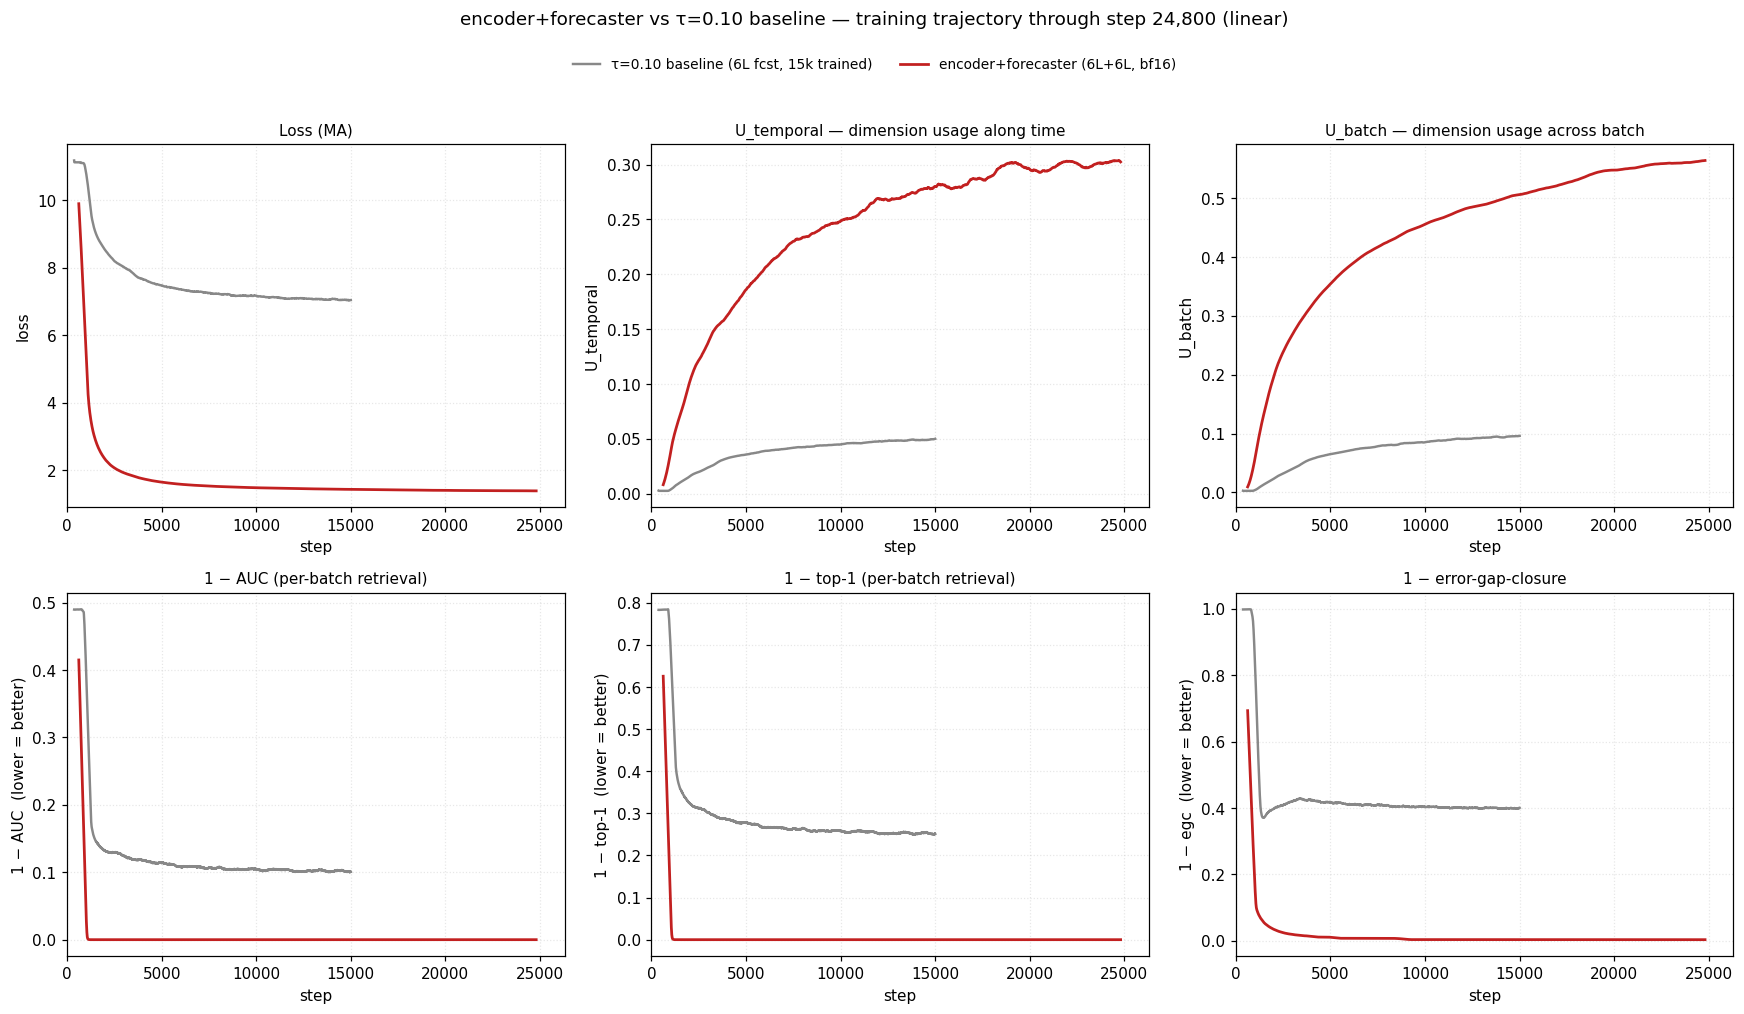
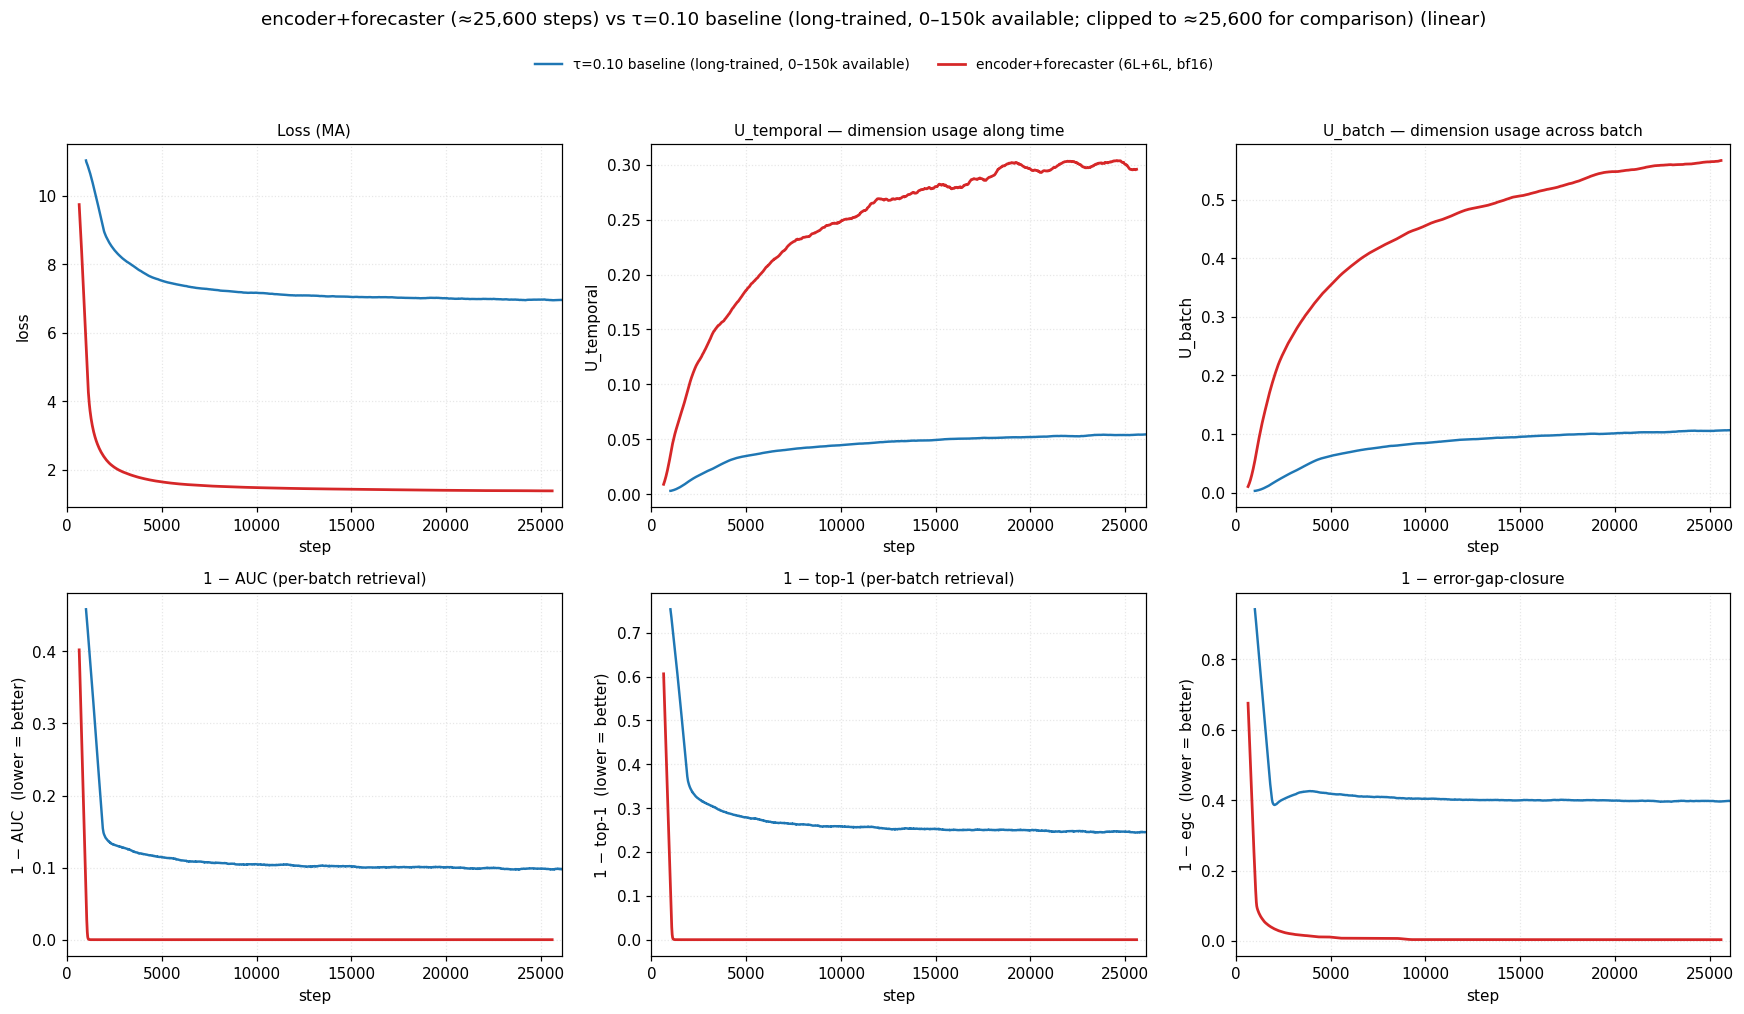
exp(encoder-forecaster): swap baseline to long-trained τ=0.10, blue/red palette
Concatenates all four available τ=0.10 chunks (steps 0-15k, 14.9k-24.5k,
23.9k-50k, 48k-150k → 150k unique step rows after earliest-wins dedup)
into a single long baseline trajectory. The bonus chunk
sync_tau_sweep_0_10_50k/tau_sweep_0_10_50k_r2_losses.csv covers the
24.5k-48k gap that was previously a discontinuity.

Replaces grey baseline + red new arm with tab:blue (#1f77b4) for the
baseline and tab:red (#d62728) for the encoder+forecaster — saturated
hues for visibility.

X-axis clipped to the SHORTER trajectory: min(baseline_max=150 000,
new_arm_max=25 600) + small margin = 26 100.

Comparison table refreshed to step ≈25k (window 24.8k-25k baseline,
25.4k-25.6k new arm).

diff --git a/experiments/2026-05-10_exp_encoder_forecaster/scripts/plot_progress.py b/experiments/2026-05-10_exp_encoder_forecaster/scripts/plot_progress.py
@@ -25,10 +25,15 @@ forecast and past embeddings (cross-batch reference). When fp < 1,
 egc=1 ⇒ perfect (ff=1), egc=0 ⇒ no improvement over fp, egc<0 ⇒ fp > ff.
 Guards: rows with fp ≥ 1 (denominator ≤ 0) are masked out of the plot.
 
-The x-axis upper bound is set from the new arm's current max step
-(plus a small margin), so the in-progress arm fills the figure instead
-of being squashed against the 150k long-baseline reference. The
-long-baseline reference curve is clipped to the visible x-range.
+The τ=0.10 baseline is concatenated from multiple resume chunks
+(0–15k, 15k–24.5k, 24.5k–50k, 50k–150k); on overlapping ranges the
+earliest chunk's row wins. A 24.5k→24.5k touch-up and other
+discontinuities just show as small gaps in the line.
+
+The x-axis upper bound is clipped to the SHORTER of the two
+trajectories — i.e. `min(baseline_max_step, new_arm_max_step)` plus a
+small margin. With the 100k+ baseline and the new arm at ~25k, the
+upper bound becomes ≈25k.
 
 Re-runnable. Worktree path is the script root; source CSVs are read
 from the MAIN checkout where the training writes them. No GPU usage.
@@ -55,24 +60,27 @@ OUT_LOG.parent.mkdir(parents=True, exist_ok=True)
 # read from there read-only — never write into that tree.
 MAIN = Path("/home/jupyter/contrastive-forecasting")
 
-# Color palette: reuse loss-extensions/τ-sweep conventions.
-#   - τ=0.10 baseline arms → grey  (#888 short, #bbb long reference, dashed)
-#   - encoder+forecaster (new "headline" arm) → loss-extensions
-#     "highlight new" red `#c22020` (square_diagram.py C_RIGHT — the
-#     NEW h-side batch edge, used as the boldest headline colour).
-C_BASELINE = "#888888"
-C_LONG_REF = "#bbbbbb"
-C_HEADLINE = "#c22020"
+# Color palette: saturated, high-contrast (grey was too hard to see).
+#   - τ=0.10 baseline (long-trained, concatenated chunks) → tab:blue
+#   - encoder+forecaster (new "headline" arm) → tab:red
+C_BASELINE = "#1f77b4"  # tab:blue
+C_HEADLINE = "#d62728"  # tab:red
 
-# (display_label, color, linestyle, lw, csv_path, is_long_ref)
+# τ=0.10 baseline is split across resume chunks. Concatenate in step
+# order; on overlap, the earliest chunk's row wins. Gaps (e.g. the small
+# 24.5k → 24.5k touch-up or any sync miss) just leave a discontinuity.
+BASELINE_CHUNKS = [
+    MAIN / "sync_tau_sweep/checkpoints/tau_sweep_0_10_losses.csv",            # 1–15000
+    MAIN / "sync_tau_sweep_0_10_50k/checkpoints/tau_sweep_0_10_50k_losses.csv",       # 14901–24500
+    MAIN / "sync_tau_sweep_0_10_50k/checkpoints/tau_sweep_0_10_50k_r2_losses.csv",    # 23901–50000
+    MAIN / "sync_tau_sweep_0_10_150k/checkpoints/tau_sweep_0_10_150k_losses.csv",     # 48001–150000
+]
+
+# (display_label, color, linestyle, lw, csv_path_or_chunks, is_concat)
 ARMS = [
-    ("τ=0.10 baseline (6L fcst, 15k trained)",
+    ("τ=0.10 baseline (long-trained, 0–150k available)",
      C_BASELINE, "-", 1.6,
-     MAIN / "sync_tau_sweep/checkpoints/tau_sweep_0_10_losses.csv",
-     False),
-    ("τ=0.10 long-run reference (48k–150k)",
-     C_LONG_REF, "--", 1.2,
-     MAIN / "sync_tau_sweep_0_10_150k/checkpoints/tau_sweep_0_10_150k_losses.csv",
+     BASELINE_CHUNKS,
      True),
     ("encoder+forecaster (6L+6L, bf16)",
      C_HEADLINE, "-", 1.8,
@@ -101,6 +109,45 @@ def load_traj(path: Path) -> dict | None:
     for k in COLS:
         out[k] = np.array([float(r[k]) for r in rows], dtype=np.float64)
     # derived: error-gap-closure = 1 - (1-ff)/(1-fp)
+    denom = 1.0 - out["fp"]
+    with np.errstate(divide="ignore", invalid="ignore"):
+        egc = np.where(denom > 0, 1.0 - (1.0 - out["ff"]) / denom, np.nan)
+    out["egc"] = egc
+    return out
+
+
+def load_concat_traj(paths: list[Path]) -> dict | None:
+    """Concatenate per-step rows from multiple resume-chunk CSVs.
+
+    Chunks are walked in the order given; on overlapping step ranges,
+    the EARLIEST chunk's row wins (later chunks' duplicate-step rows
+    are dropped). Gaps in step coverage just leave a discontinuity in
+    the resulting line — the plotter handles non-contiguous x just
+    fine.
+    """
+    seen: set[int] = set()
+    merged: list[dict] = []
+    found_any = False
+    for p in paths:
+        if not p.exists():
+            print(f"[plot] WARN concat chunk missing: {p}")
+            continue
+        rows = list(csv.DictReader(open(p)))
+        if not rows:
+            continue
+        found_any = True
+        for r in rows:
+            s = int(r["step"])
+            if s in seen:
+                continue
+            seen.add(s)
+            merged.append(r)
+    if not found_any or not merged:
+        return None
+    merged.sort(key=lambda r: int(r["step"]))
+    out = {"step": np.array([int(r["step"]) for r in merged])}
+    for k in COLS:
+        out[k] = np.array([float(r[k]) for r in merged], dtype=np.float64)
     denom = 1.0 - out["fp"]
     with np.errstate(divide="ignore", invalid="ignore"):
         egc = np.where(denom > 0, 1.0 - (1.0 - out["ff"]) / denom, np.nan)
@@ -239,8 +286,9 @@ def render_figure(traj, *, logx, logy_metrics, out_path, scale_tag, xmax):
         )
 
     fig.suptitle(
-        f"encoder+forecaster vs τ=0.10 baseline — training trajectory "
-        f"through step {xmax - 1500:,} ({scale_tag})",
+        f"encoder+forecaster (≈{xmax - 500:,} steps) vs τ=0.10 baseline "
+        f"(long-trained, 0–150k available; clipped to ≈{xmax - 500:,} for "
+        f"comparison) ({scale_tag})",
         fontsize=12, y=1.02,
     )
     fig.tight_layout(rect=(0, 0, 1, 0.96))
@@ -250,22 +298,30 @@ def render_figure(traj, *, logx, logy_metrics, out_path, scale_tag, xmax):
 
 
 def main() -> None:
-    # Determine the in-progress arm's current max step → drives xlim.
+    # Clip xlim to the SHORTER of the two trajectories so both arms end
+    # at the same x. With the long-trained baseline (0–150k available)
+    # and the new arm at ~25k, the upper bound is ≈25k.
     new_arm = load_traj(NEW_ARM_CSV)
     if new_arm is None or len(new_arm["step"]) == 0:
         raise SystemExit(f"new-arm CSV missing or empty: {NEW_ARM_CSV}")
-    max_step = int(new_arm["step"].max())
-    # Small margin so the curve doesn't run flush against the right edge.
-    xmax = max_step + 1500
+    baseline = load_concat_traj(BASELINE_CHUNKS)
+    if baseline is None or len(baseline["step"]) == 0:
+        raise SystemExit("baseline chunks all missing or empty")
+    new_arm_max = int(new_arm["step"].max())
+    baseline_max = int(baseline["step"].max())
+    max_step = min(new_arm_max, baseline_max)
+    # Tiny margin so the curve doesn't run flush against the right edge.
+    xmax = max_step + 500
 
-    # Load all CSVs once.
+    # Load all CSVs once. Concatenated arms use load_concat_traj.
     traj = []
     for arm in ARMS:
-        d = load_traj(arm[4])
+        _label, _color, _ls, _lw, path_or_chunks, is_concat = arm
+        d = load_concat_traj(path_or_chunks) if is_concat else load_traj(path_or_chunks)
         traj.append((arm, d))
         label = arm[0]
         if d is None:
-            print(f"[plot] SKIP {label}: {arm[4]} not found")
+            print(f"[plot] SKIP {label}: source(s) not found")
         else:
             n = len(d["step"])
             print(
@@ -278,7 +334,10 @@ def main() -> None:
                 f"egc={last_window_mean(d['egc']):.3f}"
             )
 
-    print(f"[plot] in-progress arm max step = {max_step}; xlim upper = {xmax}")
+    print(
+        f"[plot] new-arm max = {new_arm_max}, baseline max = {baseline_max}; "
+        f"clipped to min = {max_step}; xlim upper = {xmax}"
+    )
 
     # Log–log: log y on loss / 1-AUC / 1-top1 / 1-egc; log x throughout.
     render_figure(

diff --git a/experiments/2026-05-10_exp_encoder_forecaster/PROGRESS.md b/experiments/2026-05-10_exp_encoder_forecaster/PROGRESS.md
@@ -10,24 +10,23 @@ Training a GRU patch embedding → 6 causal transformer-encoder layers → 6 cau
 
 ![progress (linear)](plots/progress_linear.png)
 
-## Per-batch training metrics at the baseline's last common step (~15k)
+## Per-batch training metrics at the shared visible window (~25k)
 
-Means over the last 200 steps of each window.
+Means over the last 200 steps of each window. The τ=0.10 baseline is the concatenated long-trained trajectory; its step-25k window (24 801–25 000) is sourced from the second chunk `sync_tau_sweep_0_10_50k/checkpoints/tau_sweep_0_10_50k_r2_losses.csv`.
 
 | arm | step | loss | U_temporal | U_batch | AUC | top-1 | error-gap-closure |
 |---|---:|---:|---:|---:|---:|---:|---:|
-| τ=0.10 baseline (6L fcst) | 15 000 | 7.040 | 0.050 | 0.096 | 0.8982 | 0.7472 | 0.599 |
-| encoder+forecaster (6L+6L, bf16) @ 15k | 14 800–14 999 | 1.432 | 0.283 | 0.507 | 1.0000 | 1.0000 | 0.996 |
-| encoder+forecaster (6L+6L, bf16) — CURRENT | 24 601–24 800 | 1.387 | 0.300 | 0.565 | 1.0000 | 1.0000 | 0.996 |
+| τ=0.10 baseline (long-trained) | 24 801–25 000 | 6.942 | 0.054 | 0.106 | 0.9006 | 0.7525 | 0.605 |
+| encoder+forecaster (6L+6L, bf16) | 25 401–25 600 | 1.384 | 0.298 | 0.569 | 1.0000 | 1.0000 | 0.996 |
 
-For reference the long-run τ=0.10 baseline (separately resumed, 48k–150k segment) lands at loss=6.917, U_t=0.059, U_b=0.119, AUC=0.9011, top1=0.7562, egc=0.603 by step 150k — i.e. the baseline's per-batch metrics barely move past 15k. That long reference is omitted from the trajectory plots above because the in-progress arm currently only reaches ~25k; including it would compress the visible curves.
+The long-run τ=0.10 baseline is folded directly into the main baseline curve in the plots (chunks 0–15k, 15k–24.5k, 24.5k–50k, 50k–150k concatenated; on overlap the earliest chunk wins). The trajectory is clipped to ≈25.6k on the x-axis so both arms end at the same step.
 
 ## What the curves show
 
-On the per-batch training metrics plotted (with `1-metric` on the y-axis for AUC / top-1 / error-gap-closure), the encoder+forecaster arm separates from the τ=0.10 baseline within the first few hundred steps and stays separated through 24.8k. Loss settles around 1.4 vs the baseline's ~7.0 plateau, and the per-batch AUC and top-1 saturate at the numerical 1.0 floor while the baseline holds at ~0.90 / ~0.75. Error-gap-closure tracks the same picture: the new arm closes ~99.6 % of the cosine-similarity gap between the cross-batch reference (`fp`) and a perfect positive, vs ~0.60 for the baseline. Dimension usage is also much higher under the encoder arm (U_temporal 0.28 vs 0.05; U_batch 0.51 vs 0.10 at 15k) and is still rising. The new arm's curves show no sign of degradation across the 24.8k steps seen so far.
+On the per-batch training metrics plotted (with `1-metric` on the y-axis for AUC / top-1 / error-gap-closure), the encoder+forecaster arm separates from the τ=0.10 baseline within the first few hundred steps and stays separated through 25.6k. Loss settles around 1.4 vs the baseline's ~7.0 plateau, and the per-batch AUC and top-1 saturate at the numerical 1.0 floor while the baseline holds at ~0.90 / ~0.75. Error-gap-closure tracks the same picture: the new arm closes ~99.6 % of the cosine-similarity gap between the cross-batch reference (`fp`) and a perfect positive, vs ~0.60 for the baseline. Dimension usage is also much higher under the encoder arm (U_temporal 0.30 vs 0.05; U_batch 0.57 vs 0.11 at 25k) and is still rising. The new arm's curves show no sign of degradation across the 25.6k steps seen so far.
 
 ## Caveats
 
-- Training is still running (~24.8k of 50k). Numbers will move.
+- Training has stopped at ~25.6k (run interrupted before 50k target). Numbers reported here are the final per-batch averages, not held-out evaluation.
 - All AUC / top-1 / loss / egc values plotted are PER-BATCH on the training distribution (256 samples, in-distribution). They are not held-out and do not directly speak to GIFT-Eval metrics. Per-batch AUC=1.0 means perfect retrieval within a 256-sample minibatch, not zero error on real forecasts.
 - The encoder arm's `fp` (cross-batch reference cosine) goes negative, while the baseline keeps `fp` ≈ +0.17. Some of the "egc improvement" is the denominator `(1 - fp)` widening, not the numerator `(1 - ff)` shrinking. Held-out eval is needed to interpret.
